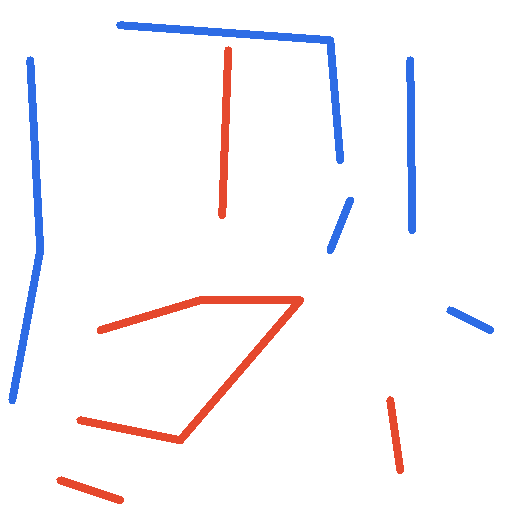
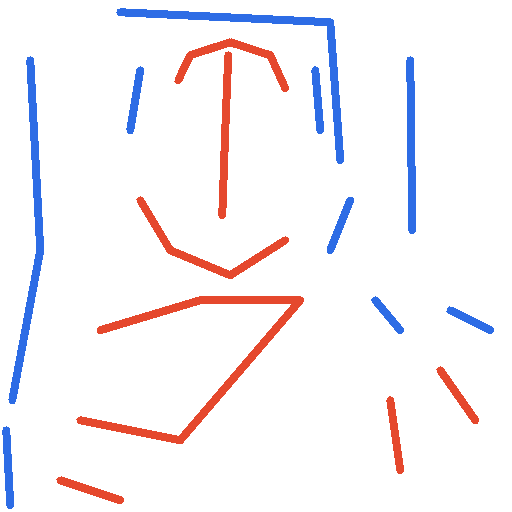
docs(samples): Refine astronaut scribbles and add the resulting cutout

diff --git a/samples/README.md b/samples/README.md
@@ -4,4 +4,4 @@
 |---|---|---|
 | `astronaut.png` | Portrait of astronaut Eileen Collins | NASA, public domain (via scikit-image) |
 | `astronaut-scribbles.png` | Scribbles for the portrait: red is subject, blue is background | Made for this project |
-| `cat.png` | Photo of a cat | CC0, by Stefan van der Walt (via scikit-image) |
+| `astronaut-cutout.png` | The cutout those scribbles produce with the default parameters | Made by Thanos |
